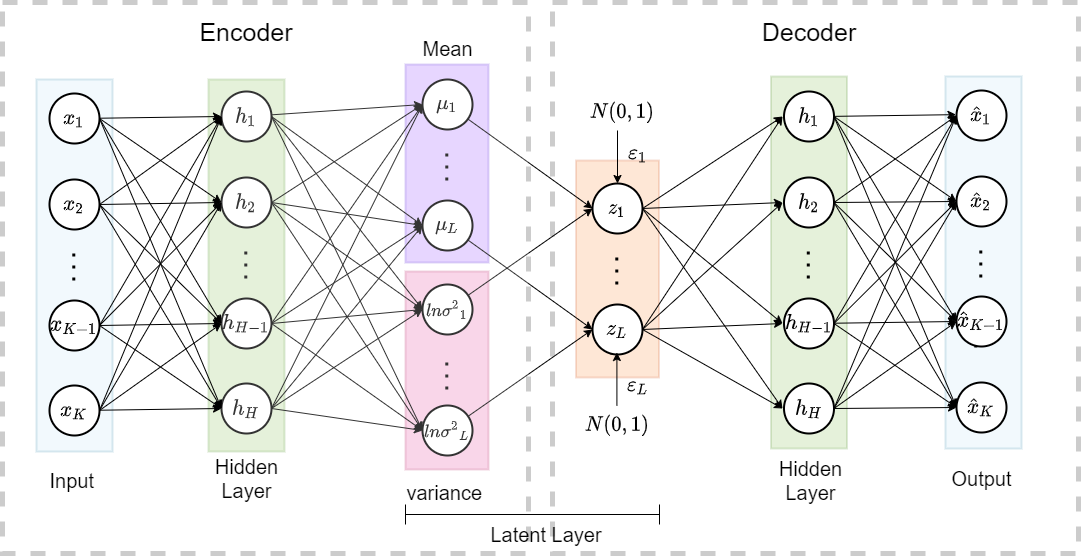
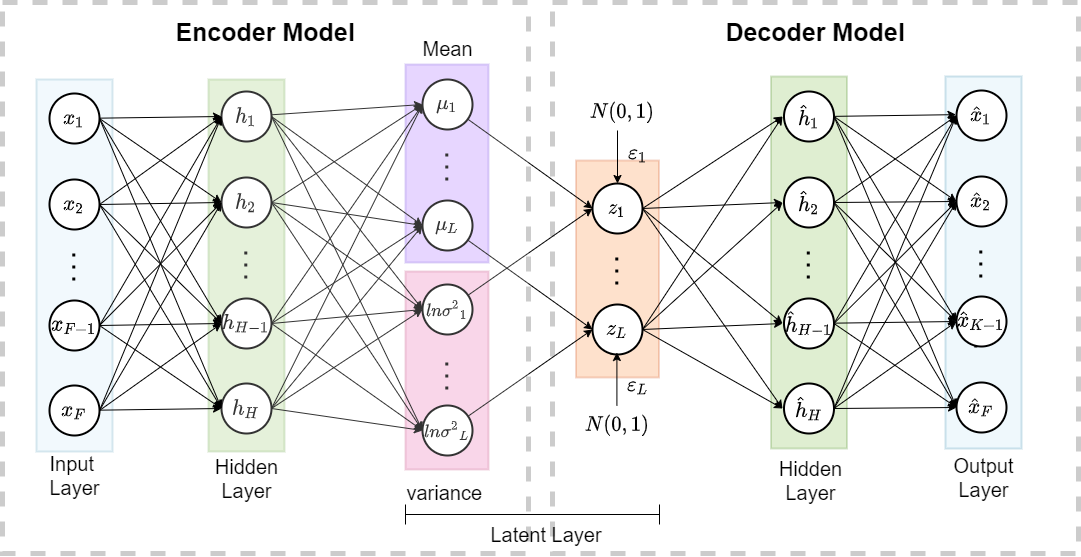
2021/6/20

diff --git a/README.md b/README.md
@@ -17,16 +17,13 @@
 
 4.对数据进行MinMaxScaler()；
 
-<<<<<<< HEAD
 然后 /data/VAE_PATCN.ipynb 包含深度学习的模型、训练的内容，训练过程中产生或保存的一些文件都存放到 ./model 中。**所提出方法的架构图**如下图所示：
+
+![proposed_method](./picture/VAE.png)
 
 ![proposed_method](D:/桌面/重要文献/刷题/Typora笔记/相关图片/proposed_method.png)
 =======
 然后 /data/VAE_PATCN.ipynb 包含深度学习的模型、训练的内容，训练过程中产生或保存的一些文件都存放到 ./model 中。
-<<<<<<< HEAD
->>>>>>> 27753c0f4229f2741ff450ec0c49daecd723ca43
-=======
->>>>>>> 27753c0f4229f2741ff450ec0c49daecd723ca43
 
 主要内容：
 
